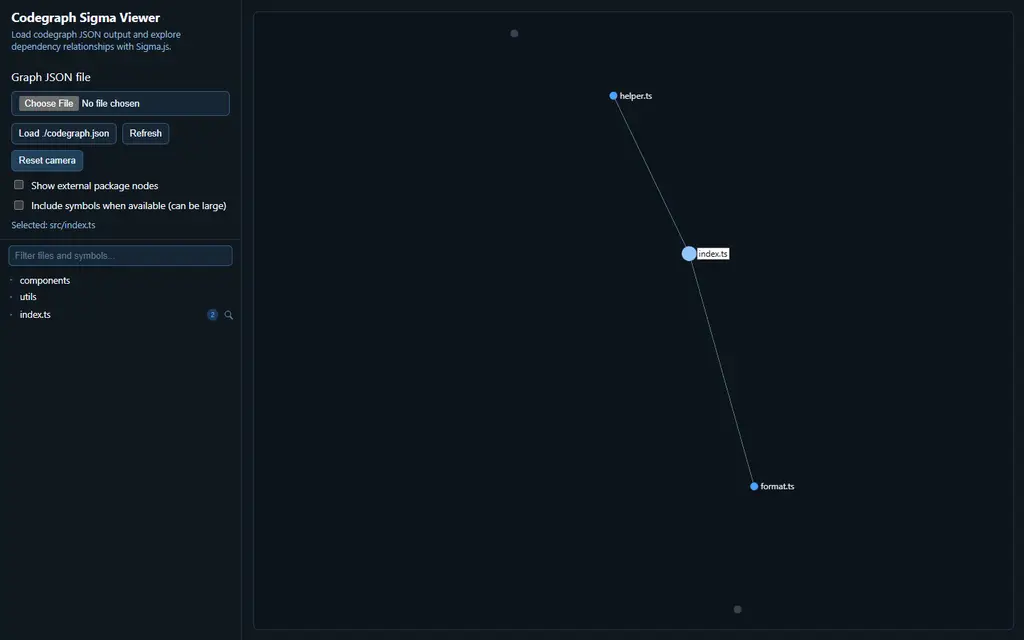
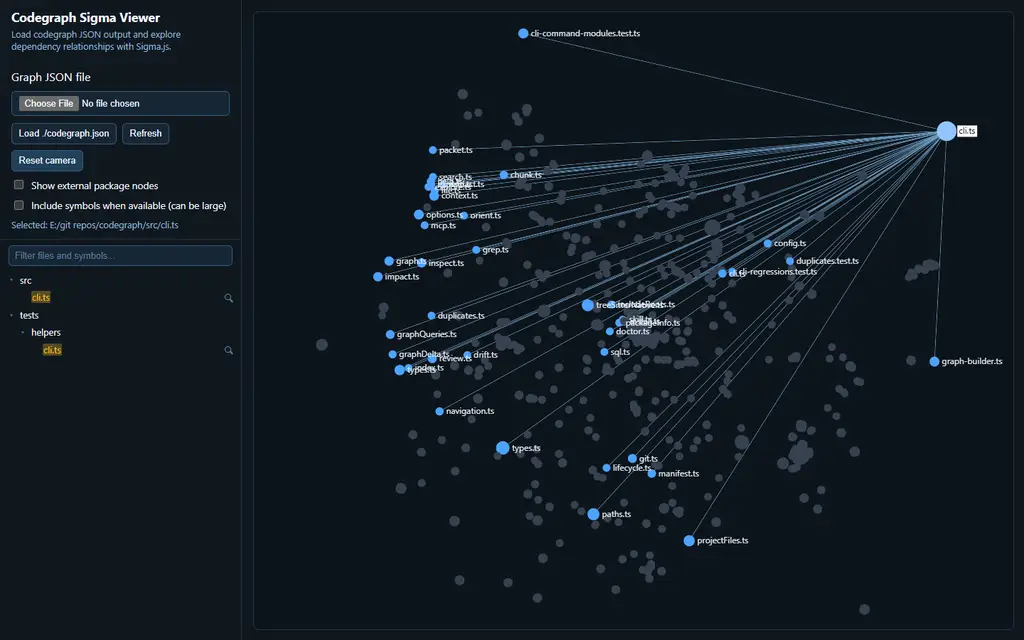
fix(viewer): address graph loading review feedback

diff --git a/tests/graph-visualization/app.test.ts b/tests/graph-visualization/app.test.ts
@@ -1,5 +1,5 @@
 // @vitest-environment jsdom
-import { beforeEach, describe, expect, it, vi } from "vitest";
+import { afterEach, beforeEach, describe, expect, it, vi } from "vitest";
 
 const portablePayload = {
   format: "codegraph.graph-json",
@@ -11,6 +11,8 @@ const portablePayload = {
   ],
   symbolEdges: [{ from: "src/a.ts:foo", to: "src/b.ts:bar", label: "calls" }],
 };
+
+const scrollIntoViewDescriptor = Object.getOwnPropertyDescriptor(HTMLElement.prototype, "scrollIntoView");
 
 function mountViewer(): void {
   document.body.innerHTML = `
@@ -46,6 +48,14 @@ beforeEach(() => {
   HTMLElement.prototype.scrollIntoView = vi.fn();
 });
 
+afterEach(() => {
+  if (scrollIntoViewDescriptor) {
+    Object.defineProperty(HTMLElement.prototype, "scrollIntoView", scrollIntoViewDescriptor);
+    return;
+  }
+  Reflect.deleteProperty(HTMLElement.prototype, "scrollIntoView");
+});
+
 describe("packaged viewer graph loading", () => {
   it("auto-loads the fixed same-origin graph route and reuses it for the default control", async () => {
     const fetchMock = successfulFetch();
@@ -61,6 +71,28 @@ describe("packaged viewer graph loading", () => {
     document.getElementById("load-default")?.click();
     await vi.waitFor(() => expect(fetchMock).toHaveBeenCalledTimes(2));
     expect(fetchMock).toHaveBeenLastCalledWith("/graph.json");
+  });
+
+  it.each([
+    ["/", "/codegraph.json"],
+    ["/?graph=%2Fgraph.json", "/graph.json"],
+  ])("reports the resolved graph path when loading %s fails", async (url, graphPath) => {
+    vi.stubGlobal(
+      "fetch",
+      vi.fn(async () => ({
+        ok: false,
+        status: 404,
+      })),
+    );
+    window.history.replaceState({}, "", url);
+
+    await import("../../docs/graph-visualization/app.js");
+
+    await vi.waitFor(() =>
+      expect(document.getElementById("status")?.textContent).toBe(
+        `Failed to load ${graphPath}: Request failed with status 404`,
+      ),
+    );
   });
 
   it("forces labels for a selected node and its immediate neighbors", async () => {

diff --git a/docs/graph-visualization/app.js b/docs/graph-visualization/app.js
@@ -803,13 +803,17 @@ async function fetchGraph(graphPath) {
   await loadGraphFromText(await response.text());
 }
 
-async function loadDefaultGraph() {
+async function loadGraphPath(graphPath) {
   try {
-    await fetchGraph(resolveGraphQueryPath() ?? DEFAULT_GRAPH_PATH);
+    await fetchGraph(graphPath);
   } catch (error) {
     const message = error instanceof Error ? error.message : "Unknown error";
-    setStatus(`Failed to load ./codegraph.json: ${message}`);
+    setStatus(`Failed to load ${graphPath}: ${message}`);
   }
+}
+
+async function loadDefaultGraph() {
+  await loadGraphPath(resolveGraphQueryPath() ?? DEFAULT_GRAPH_PATH);
 }
 
 loadDefaultButton.addEventListener("click", () => {
@@ -839,18 +843,13 @@ async function loadInitialGraph() {
     return;
   }
 
-  try {
-    const graphPath = resolveGraphQueryPath();
-    if (!graphPath) {
-      setStatus("Ignoring an unsafe graph URL.");
-      return;
-    }
-
-    await fetchGraph(graphPath);
-  } catch (error) {
-    const message = error instanceof Error ? error.message : "Unknown error";
-    setStatus(`Failed to load graph: ${message}`);
+  const graphPath = resolveGraphQueryPath();
+  if (!graphPath) {
+    setStatus("Ignoring an unsafe graph URL.");
+    return;
   }
+
+  await loadGraphPath(graphPath);
 }
 
 resetCameraButton.addEventListener("click", () => {

diff --git a/README.md b/README.md
@@ -176,7 +176,7 @@ codegraph graph --root . ./src --sqlite codegraph.sqlite
 
 The packaged viewer is a human-facing graph UI; agents should use graph JSON, SQLite, MCP, or `--json` instead. Its command is `codegraph viewer [--root <root>] [--graph <root-confined-json>] [--host <host>] [--port <0-65535>] [--open] [--print-url]`; the root defaults to the current directory.
 
-![Codegraph graph viewer with `src/index.ts` selected and its immediate dependencies labeled](docs/graph-visualization/viewer-selected-node.webp)
+![Codegraph graph viewer with `src/cli.ts` selected and its immediate dependencies labeled](docs/graph-visualization/viewer-selected-node.webp)
 
 ```bash
 codegraph viewer --root . --open
